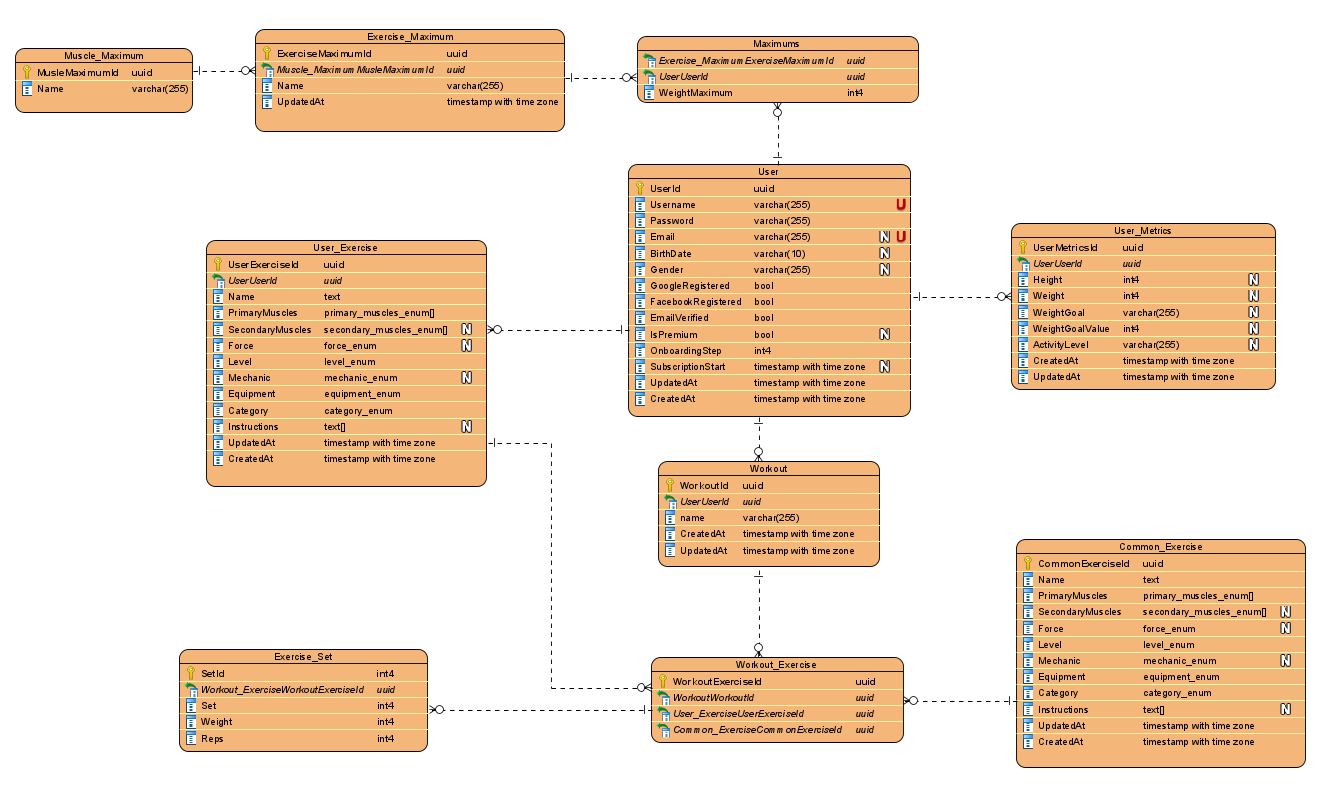
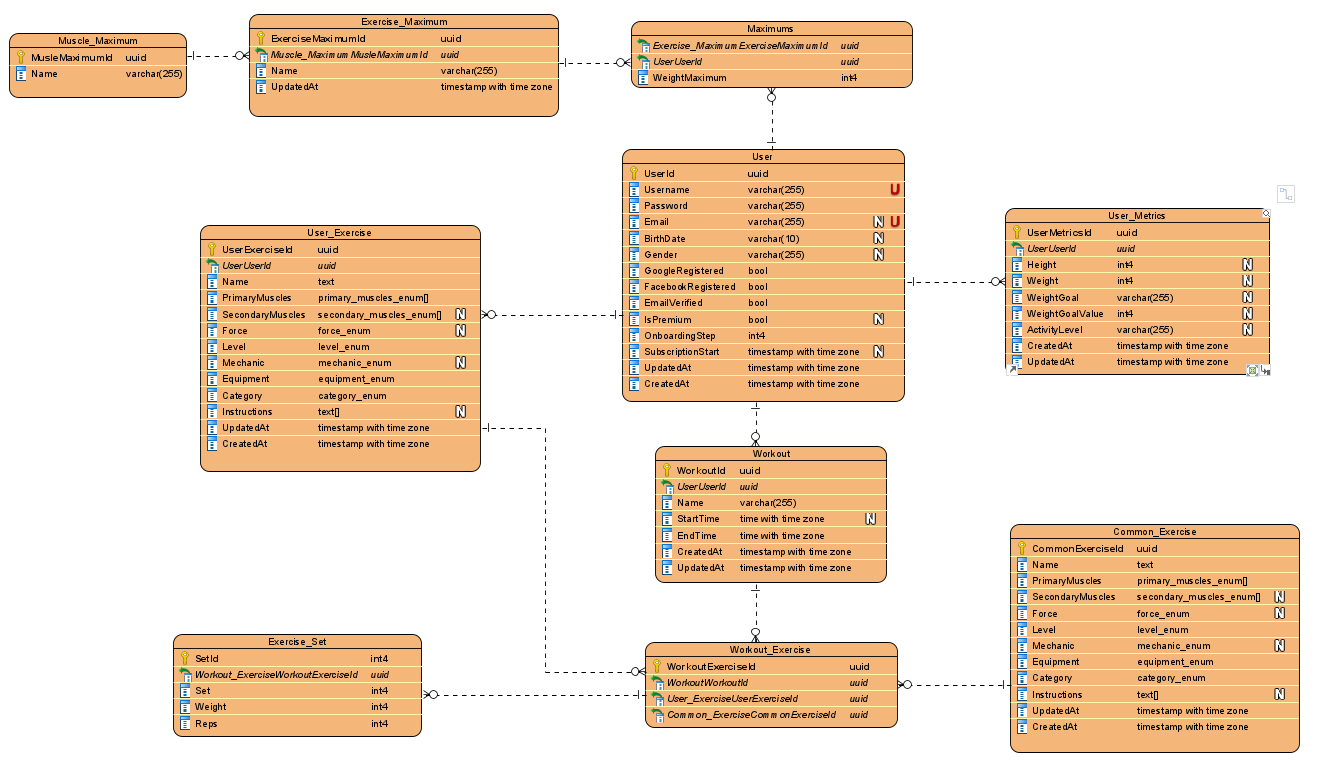
feature: ability to change date, start and end time of the workout

diff --git a/web/src/pages/Workouts/Workout/Workout.tsx b/web/src/pages/Workouts/Workout/Workout.tsx
@@ -17,6 +17,7 @@ import {
   useAddNewExercisesToTheWorkoutMutation,
   useGetUserWorkoutLazyQuery,
   useMeQuery,
+  useUpdateGeneralWorkoutInfoMutation,
   WorkoutExercise,
 } from "../../../generated/graphql";
 import DashbordLayoutHOC from "../../../hoc/DashbordLayoutHOC";
@@ -50,12 +51,29 @@ const Workout: React.FC<WorkoutProps> = () => {
   const { id } = useParams<{ id: string }>();
 
   const { data: user } = useMeQuery();
-  const [getWorkout, { data: workoutData }] = useGetUserWorkoutLazyQuery({
-    onCompleted: ({ getUserWorkout }) => {
-      if (getUserWorkout && getUserWorkout.name) {
-        setNewWorkoutName(getUserWorkout.name);
-      }
+  const [getWorkout, { data: workoutData }] = useGetUserWorkoutLazyQuery();
+  const [updateGeneralWorkoutInfo] = useUpdateGeneralWorkoutInfoMutation({
+    onCompleted: () => {
+      setEditGeneralInfo(false);
+      setDateWithTime(undefined);
+      dispatch(
+        popupActions.setPopupVisibility({
+          visibility: true,
+          text: "Updated successfuly!",
+          popupType: "success",
+        }),
+      );
+      setTimeout(() => {
+        dispatch(
+          popupActions.setPopupVisibility({
+            visibility: false,
+            text: "Updated successfuly!",
+            popupType: "success",
+          }),
+        );
+      }, 4000);
     },
+    refetchQueries: createRefetchQueriesArray(["getUserWorkout"]),
   });
   const [addNewExercisesToTheWorkout] = useAddNewExercisesToTheWorkoutMutation({
     onCompleted: ({ addNewExercisesToTheWorkout }) => {
@@ -128,8 +146,6 @@ const Workout: React.FC<WorkoutProps> = () => {
     [],
   );
 
-  console.log({ dateWithTime });
-
   const dispatch = useDispatch();
 
   const handleAddExercise = () => {
@@ -170,6 +186,46 @@ const Workout: React.FC<WorkoutProps> = () => {
 
   const handleCancelChangeGeneralInfo = () => {
     setEditGeneralInfo(false);
+  };
+
+  const handlSaveGeneralInfoButtonClick = () => {
+    if (!workoutData) return;
+    if (!workoutData.getUserWorkout) return;
+
+    const variables: {
+      input: {
+        date?: Date;
+        endTime?: Date;
+        startTime?: Date;
+        workoutName?: string;
+        workoutId: string;
+      };
+    } = {
+      input: {
+        workoutId: workoutData.getUserWorkout.id,
+      },
+    };
+
+    if (dateWithTime?.endTime) {
+      variables.input.endTime = moment(dateWithTime?.endTime, "H:m:s").toDate();
+    }
+
+    if (dateWithTime?.startTime) {
+      variables.input.startTime = moment(
+        dateWithTime?.startTime,
+        "H:m:s",
+      ).toDate();
+    }
+
+    if (dateWithTime?.date) {
+      variables.input.date = dateWithTime?.date;
+    }
+
+    if (newWorkoutName) {
+      variables.input.workoutName = newWorkoutName;
+    }
+
+    updateGeneralWorkoutInfo({ variables });
   };
 
   const handleSaveNewExercises = () => {
@@ -267,9 +323,11 @@ const Workout: React.FC<WorkoutProps> = () => {
                 onChange={handleNameChange}
                 placeholder="Search"
                 type="text"
-                value={newWorkoutName}
+                value={newWorkoutName || fetchedWorkout?.getUserWorkout?.name}
                 width="200px"
-                error={newWorkoutName!.length <= 0 ? "Empty" : ""}
+                error={
+                  newWorkoutName && newWorkoutName?.length <= 0 ? "Empty" : ""
+                }
               />
             )}
             {!editGeneralInfo && (
@@ -279,14 +337,19 @@ const Workout: React.FC<WorkoutProps> = () => {
           <GeneralInfoWrapper>
             <Date>
               {!dateWithTime?.date &&
-                moment(fetchedWorkout?.getUserWorkout?.updatedAt, "x").format(
-                  "DD MMMM YYYY - HH:MM",
+                moment(fetchedWorkout?.getUserWorkout?.createdAt, "x").format(
+                  "DD MMMM YYYY - HH:mm",
                 )}
               {dateWithTime?.date &&
+                !dateWithTime.endTime &&
+                moment(dateWithTime.date).format("DD MMMM YYYY - HH:mm")}
+              {dateWithTime?.date &&
+                dateWithTime.endTime &&
                 moment(dateWithTime.date).format("DD MMMM YYYY")}
-              {dateWithTime?.date && " - "}
+
+              {dateWithTime?.endTime && " - "}
               {dateWithTime?.endTime &&
-                moment(dateWithTime.endTime, "H:m").format("HH:mm")}
+                moment(dateWithTime.endTime, "H:m:s").format("HH:mm")}
             </Date>
             {editGeneralInfo && <CalendarSVG onClick={handleCalendarClick} />}
           </GeneralInfoWrapper>
@@ -296,6 +359,7 @@ const Workout: React.FC<WorkoutProps> = () => {
                 bColor={theme.colors.successTextColor}
                 fontSize="1rem"
                 type="button"
+                onClick={handlSaveGeneralInfoButtonClick}
               >
                 Save
               </Button>

diff --git a/server/src/resolvers/workout/workoutResolver.ts b/server/src/resolvers/workout/workoutResolver.ts
@@ -19,6 +19,7 @@ import {
   CreateWorkoutInput,
   DataForMuscleHeatmap,
   UpdateExerciseSets,
+  UpdateGeneralWorkoutInfoInput,
   YearlyWorkoutsAmountResponse,
 } from "./types";
 
@@ -585,6 +586,70 @@ export class WorkoutResolver {
       await queryRunner.release();
     }
     return false;
+  }
+
+  @Mutation(() => Workout)
+  @UseMiddleware(isAuthenticated)
+  async updateGeneralWorkoutInfo(
+    @Arg("input") input: UpdateGeneralWorkoutInfoInput,
+    @Ctx() { req }: MyContext,
+  ) {
+    const { userId } = req.session;
+
+    try {
+      const workoutRepo = await getRepository(Workout);
+
+      const workout = await workoutRepo.findOne({
+        relations: [
+          "workoutExercise",
+          "workoutExercise.commonExercise",
+          "workoutExercise.userExercise",
+          "workoutExercise.exerciseSet",
+        ],
+        where: { user: userId, id: input.workoutId },
+      });
+
+      if (!workout) return new Error("You are not authorized to do that");
+
+      if (input.workoutName) {
+        workout.name = input.workoutName;
+      }
+
+      if (input.date) {
+        workout.createdAt = input.date;
+      }
+
+      if (input.startTime) {
+        workout.startTime = input.startTime;
+      }
+
+      if (input.endTime) {
+        workout.endTime = input.endTime;
+      }
+
+      const savedWorkout = await Workout.save(workout);
+
+      // Sorting nested relations in typeORM is super hard, so I'm sorting it on the server
+      // Sort ASC
+      // The newest
+      savedWorkout.workoutExercise = workout?.workoutExercise
+        //@ts-ignore
+        .map(el => el)
+        .sort((a: WorkoutExercise, b: WorkoutExercise) => {
+          if (moment(a.updatedAt).unix() > moment(b.updatedAt).unix()) {
+            return 1;
+          }
+          if (moment(a.updatedAt).unix() < moment(b.updatedAt).unix()) {
+            return -1;
+          }
+          return 0;
+        });
+
+      return savedWorkout;
+    } catch (e) {
+      console.log(e);
+      return new Error("Something went wrong");
+    }
   }
 
   @Mutation(() => Boolean)

diff --git a/web/src/components/UI/CalendarWithTimeModal/CalendarWithTimeModal.tsx b/web/src/components/UI/CalendarWithTimeModal/CalendarWithTimeModal.tsx
@@ -30,20 +30,40 @@ const CalendarWithTimeModal: React.FC<CalendarWithTimeModalProps> = ({
 }) => {
   const [startTime, setStartTime] = useState("");
   const [endTime, setEndTime] = useState("");
-  const [date, setDate] = useState(moment().toDate());
+  const [date, setDate] = useState(new Date());
 
   const handleFinish = () => {
-    setDateWithTime({
-      date,
-      startTime,
-      endTime,
-    });
+    if (endTime) {
+      const hours = moment(endTime, "H:m:s").get("hours");
+      const minutes = moment(endTime, "H:m:s").get("minutes");
+      const seconds = moment(endTime, "H:m:s").get("seconds");
+
+      const newDate = moment(date).set({ hours, minutes, seconds }).toDate();
+
+      setDateWithTime({
+        date: newDate,
+        startTime,
+        endTime,
+      });
+    } else {
+      setDateWithTime({
+        date,
+        startTime,
+        endTime,
+      });
+    }
 
     close();
   };
 
   const handleChange = (date: Date) => {
-    setDate(date);
+    const m = moment();
+    const hours = m.get("hours");
+    const minutes = m.get("minutes");
+    const seconds = m.get("seconds");
+
+    const newDate = moment(date).set({ hours, minutes, seconds }).toDate();
+    setDate(newDate);
   };
 
   return (

diff --git a/server/src/resolvers/workout/types/index.ts b/server/src/resolvers/workout/types/index.ts
@@ -116,3 +116,21 @@ export class AddNewExercisesToTheWorkoutInput {
   @Field(() => String)
   workoutId: string;
 }
+
+@InputType()
+export class UpdateGeneralWorkoutInfoInput {
+  @Field(() => String)
+  workoutId: string;
+
+  @Field(() => String, { nullable: true })
+  workoutName?: string;
+
+  @Field(() => Date, { nullable: true })
+  date?: Date;
+
+  @Field(() => Date, { nullable: true })
+  startTime?: Date;
+
+  @Field(() => Date, { nullable: true })
+  endTime?: Date;
+}

diff --git a/server/src/entities/Workout.ts b/server/src/entities/Workout.ts
@@ -25,6 +25,14 @@ export class Workout extends BaseEntity {
   @Column({ default: moment().format(`[Workout] DD-MM-YYYY`) })
   name: string;
 
+  @Field(() => Date, { nullable: true })
+  @Column({ default: null, type: "timestamp with time zone" })
+  startTime: Date;
+
+  @Field(() => Date)
+  @Column({ default: moment(), type: "timestamp with time zone" })
+  endTime: Date;
+
   @Field(() => String)
   @UpdateDateColumn({ type: "timestamp with time zone" })
   updatedAt: Date;

diff --git a/web/src/components/UI/WorkoutsList/WorkoutCard/WorkoutCard.tsx b/web/src/components/UI/WorkoutsList/WorkoutCard/WorkoutCard.tsx
@@ -87,7 +87,7 @@ const WorkoutCard: React.FC<WorkoutCardProps> = ({ workout, setPopup }) => {
       <LeftCardContent>
         <WorkoutName>{workout?.name}</WorkoutName>
         <WorkoutDate>
-          {moment(workout?.updatedAt, "x").format("DD MMMM - HH:MM")}
+          {moment(workout?.createdAt, "x").format("DD MMMM - HH:mm")}
         </WorkoutDate>
         <QuickInfoRow>
           <SVGWrapper>

diff --git a/server/src/resolvers/user.ts b/server/src/resolvers/user.ts
@@ -523,7 +523,7 @@ export class UserResolver {
 
     user.onboardingStep = step;
 
-    User.save(user);
+    await User.save(user);
 
     return user;
   }
